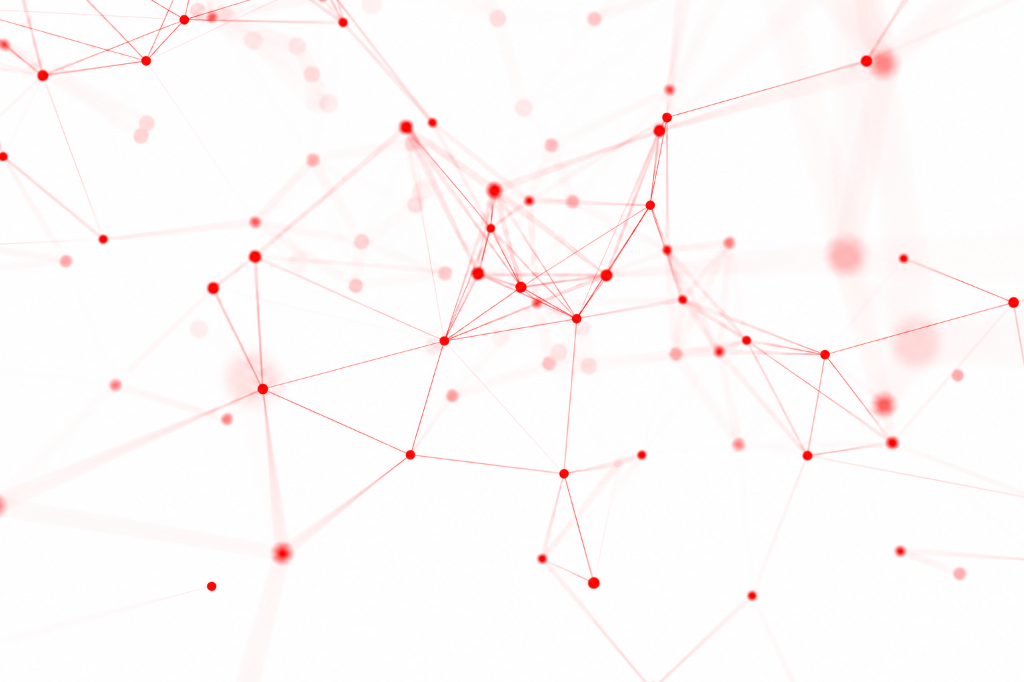
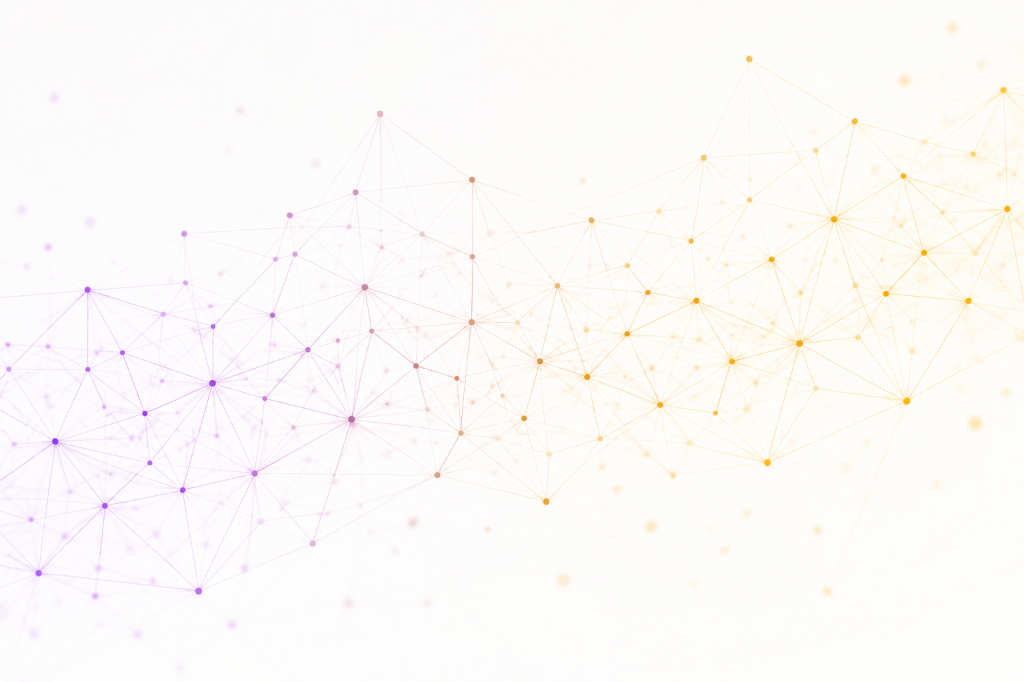
Update theme colors and background images for light and dark modes

diff --git a/src/app/globals.css b/src/app/globals.css
@@ -5,94 +5,94 @@
 
 @layer base {
   :root {
-    --background: 0 0% 98%; /* Light Gray #fafafa */
-    --foreground: 0 0% 9%; /* Dark Gray #171717 */
+    --background: 0 0% 99%; /* Clean Off-White */
+    --foreground: 240 10% 10%; /* Rich Slate #18181b */
 
-    --card: 0 0% 100%; /* White #ffffff */
-    --card-foreground: 0 0% 9%; /* Dark Gray #171717 */
+    --card: 0 0% 100%; /* Pure White */
+    --card-foreground: 240 10% 10%;
 
     --popover: 0 0% 100%; /* White */
-    --popover-foreground: 0 0% 9%; /* Dark Gray */
+    --popover-foreground: 240 10% 10%;
 
-    --primary: 358 95% 40%; /* UW Madison Red */
+    --primary: 267 83% 53%; /* Electric Amethyst Violet #7c3aed */
     --primary-foreground: 0 0% 100%; /* White for text on primary */
 
-    --secondary: 0 0% 94%; /* Lighter Gray #f0f0f0 */
-    --secondary-foreground: 0 0% 9%; /* Dark Gray for text on secondary */
+    --secondary: 260 20% 96%; /* Soft Lilac-Gray Tint #f3f0f9 */
+    --secondary-foreground: 267 83% 40%;
 
-    --muted: 0 0% 90%; /* Muted Gray #e5e5e5 */
-    --muted-foreground: 0 0% 45%; /* Muted Text #737373 */
+    --muted: 240 5% 94%; /* Muted Gray */
+    --muted-foreground: 240 5% 45%; /* Muted Text */
 
-    --accent: 358 95% 40%; /* UW Madison Red */
-    --accent-foreground: 0 0% 100%; /* White for text on accent */
+    --accent: 38 92% 48%; /* Amber Gold Accent #d97706 */
+    --accent-foreground: 0 0% 100%;
 
     --destructive: 0 84.2% 60.2%;
     --destructive-foreground: 0 0% 98%;
 
-    --border: 0 0% 89.8%; /* #e5e5e5 slightly adjusted */
-    --input: 0 0% 89.8%; /* #e5e5e5 slightly adjusted */
-    --ring: 358 95% 40%; /* UW Madison Red for focus rings */
+    --border: 240 6% 90%;
+    --input: 240 6% 90%;
+    --ring: 267 83% 53%; /* Electric Violet focus ring */
 
-    --chart-1: 12 76% 61%;
-    --chart-2: 173 58% 39%;
-    --chart-3: 197 37% 24%;
-    --chart-4: 43 74% 66%;
-    --chart-5: 27 87% 67%;
+    --chart-1: 267 83% 53%; /* Violet */
+    --chart-2: 38 92% 48%;  /* Amber Gold */
+    --chart-3: 199 89% 48%; /* Tech Cyan */
+    --chart-4: 330 81% 56%; /* Magenta */
+    --chart-5: 160 84% 39%; /* Emerald */
     --radius: 0.5rem;
 
-    --sidebar-background: 0 0% 98%;
-    --sidebar-foreground: 0 0% 9%;
-    --sidebar-primary: 358 95% 40%; /* UW Madison Red */
+    --sidebar-background: 0 0% 99%;
+    --sidebar-foreground: 240 10% 10%;
+    --sidebar-primary: 267 83% 53%;
     --sidebar-primary-foreground: 0 0% 100%;
-    --sidebar-accent: 0 0% 94%;
-    --sidebar-accent-foreground: 0 0% 9%;
-    --sidebar-border: 0 0% 89.8%;
-    --sidebar-ring: 358 95% 40%; /* UW Madison Red */
+    --sidebar-accent: 260 20% 96%;
+    --sidebar-accent-foreground: 267 83% 40%;
+    --sidebar-border: 240 6% 90%;
+    --sidebar-ring: 267 83% 53%;
   }
 
   .dark {
-    --background: 0 0% 9%; /* Dark Gray */
+    --background: 245 20% 6%; /* Deep Cosmic Obsidian */
     --foreground: 0 0% 98%; /* Light Gray / White */
 
-    --card: 0 0% 12%; /* Slightly lighter dark gray for cards */
+    --card: 245 20% 10%; /* Dark Obsidian Cards */
     --card-foreground: 0 0% 98%;
 
-    --popover: 0 0% 12%;
+    --popover: 245 20% 10%;
     --popover-foreground: 0 0% 98%;
 
-    --primary: 358 85% 55%; /* Brighter UW Red for dark theme */
+    --primary: 267 92% 67%; /* Neon Electric Violet #a855f7 */
     --primary-foreground: 0 0% 100%; 
 
-    --secondary: 0 0% 15%; /* Darker Gray for secondary elements */
+    --secondary: 245 20% 15%; /* Dark secondary elements */
     --secondary-foreground: 0 0% 98%;
 
-    --muted: 0 0% 20%; /* Muted Dark Gray */
-    --muted-foreground: 0 0% 65%;
+    --muted: 245 15% 18%; /* Muted Dark Gray */
+    --muted-foreground: 240 5% 65%;
 
-    --accent: 358 85% 55%; /* Brighter UW Red for dark theme */
-    --accent-foreground: 0 0% 100%;
+    --accent: 38 95% 58%; /* Radiant Amber Gold #fbbf24 */
+    --accent-foreground: 245 25% 10%;
 
     --destructive: 0 62.8% 30.6%;
     --destructive-foreground: 0 0% 98%;
 
-    --border: 0 0% 20%;
-    --input: 0 0% 20%;
-    --ring: 358 85% 55%; /* Brighter UW Red for dark theme ring */
+    --border: 245 15% 18%;
+    --input: 245 15% 18%;
+    --ring: 267 92% 67%; /* Neon Violet ring */
 
-    --chart-1: 220 70% 50%;
-    --chart-2: 160 60% 45%;
-    --chart-3: 30 80% 55%;
-    --chart-4: 280 65% 60%;
-    --chart-5: 340 75% 55%;
+    --chart-1: 267 92% 67%; /* Neon Violet */
+    --chart-2: 38 95% 58%;  /* Radiant Gold */
+    --chart-3: 199 89% 60%; /* Cyan */
+    --chart-4: 330 81% 65%; /* Bright Magenta */
+    --chart-5: 160 70% 50%; /* Teal */
 
-    --sidebar-background: 0 0% 9%;
+    --sidebar-background: 245 20% 6%;
     --sidebar-foreground: 0 0% 98%;
-    --sidebar-primary: 358 85% 55%; /* Brighter UW Red for dark theme sidebar */
+    --sidebar-primary: 267 92% 67%;
     --sidebar-primary-foreground: 0 0% 100%;
-    --sidebar-accent: 0 0% 15%;
+    --sidebar-accent: 245 20% 15%;
     --sidebar-accent-foreground: 0 0% 98%;
-    --sidebar-border: 0 0% 20%;
-    --sidebar-ring: 358 85% 55%; /* Brighter UW Red for dark theme sidebar ring */
+    --sidebar-border: 245 15% 18%;
+    --sidebar-ring: 267 92% 67%;
   }
 }
 

diff --git a/src/app/layout.tsx b/src/app/layout.tsx
@@ -54,23 +54,23 @@ export default function RootLayout({
       <body className={`${inter.variable} antialiased h-full`}>
         <div className="fixed inset-0 -z-20">
            <Image
-            src="/studio/background-image.jpg"
-            alt="Abstract dark background"
+            src="/studio/network-mesh-dark.jpg"
+            alt="Abstract neural constellation dark background"
             fill
             className="object-cover hidden dark:block"
-            quality={80}
+            quality={90}
             priority
           />
           <Image
-            src="/studio/abstract-network-bg-sparse.png"
-            alt="Abstract network white background"
+            src="/studio/network-mesh-light.png"
+            alt="Abstract neural constellation light background"
             fill
             className="object-cover block dark:hidden"
-            quality={80}
+            quality={90}
             priority
           />
         </div>
-        <div className="fixed inset-0 -z-10 bg-white/20 dark:bg-black/60"></div>
+        <div className="fixed inset-0 -z-10 bg-white/10 dark:bg-black/40 backdrop-blur-[0.5px]"></div>
         <InitializeTheme />
         <TooltipProvider>
           {children}

diff --git a/src/components/layout/app-header.tsx b/src/components/layout/app-header.tsx
@@ -5,7 +5,7 @@ import { ThemeSwitcher } from './theme-switcher';
 
 export function AppHeader() {
   return (
-    <header className="sticky top-0 z-50 w-full border-b border-border/50 bg-card/90 dark:bg-card/80 shadow-sm">
+    <header className="sticky top-0 z-50 w-full border-b border-border/50 bg-card/90 dark:bg-card/80 backdrop-blur-md shadow-sm">
       <div className="container mx-auto px-4 sm:px-6 lg:px-8 h-16 flex items-center justify-between">
         <div className="flex items-center gap-3">
           <ThemeSwitcher />
